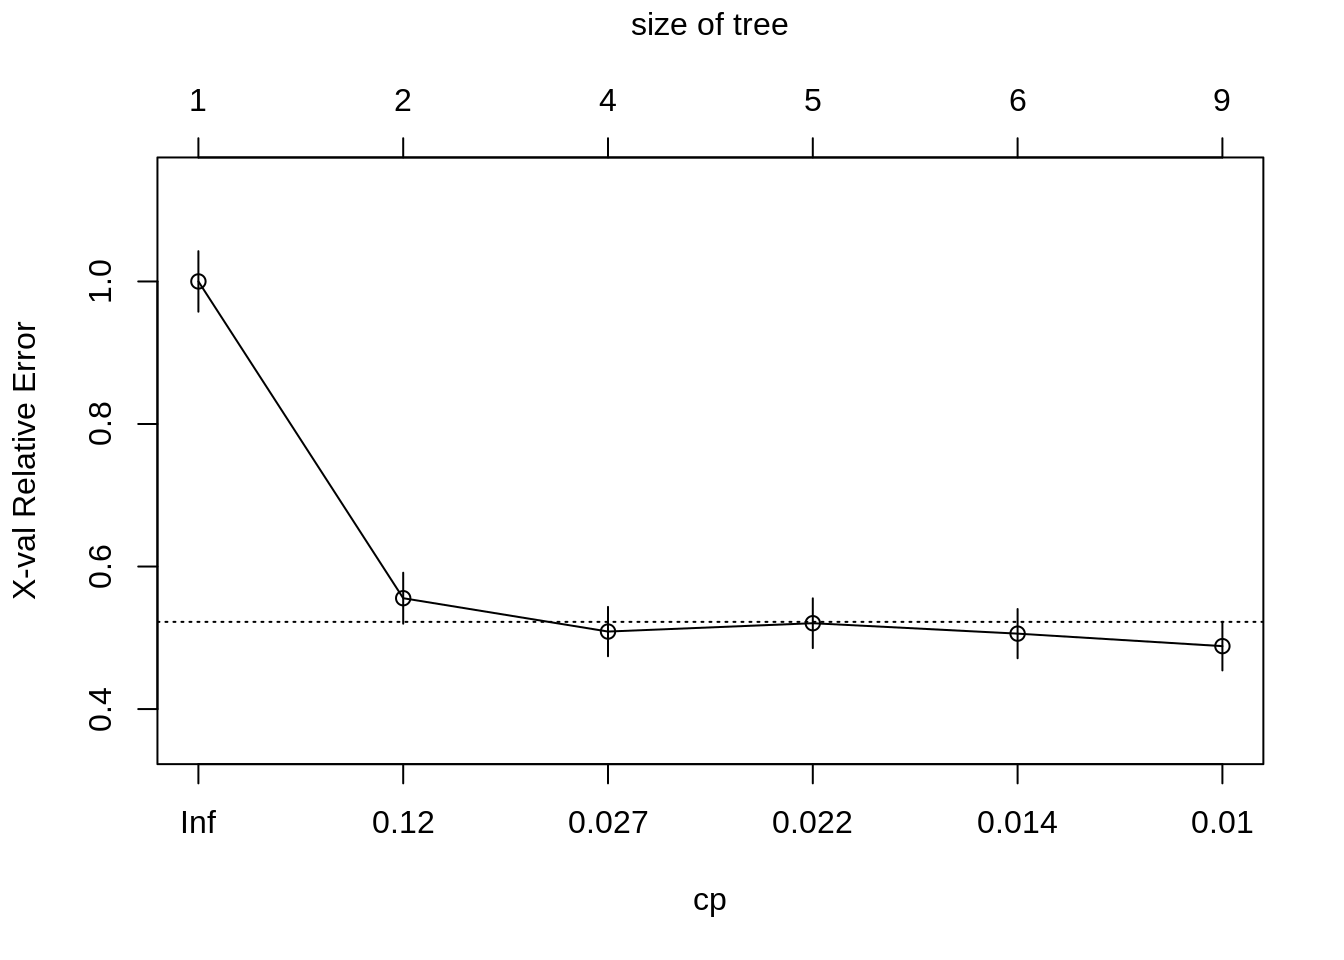
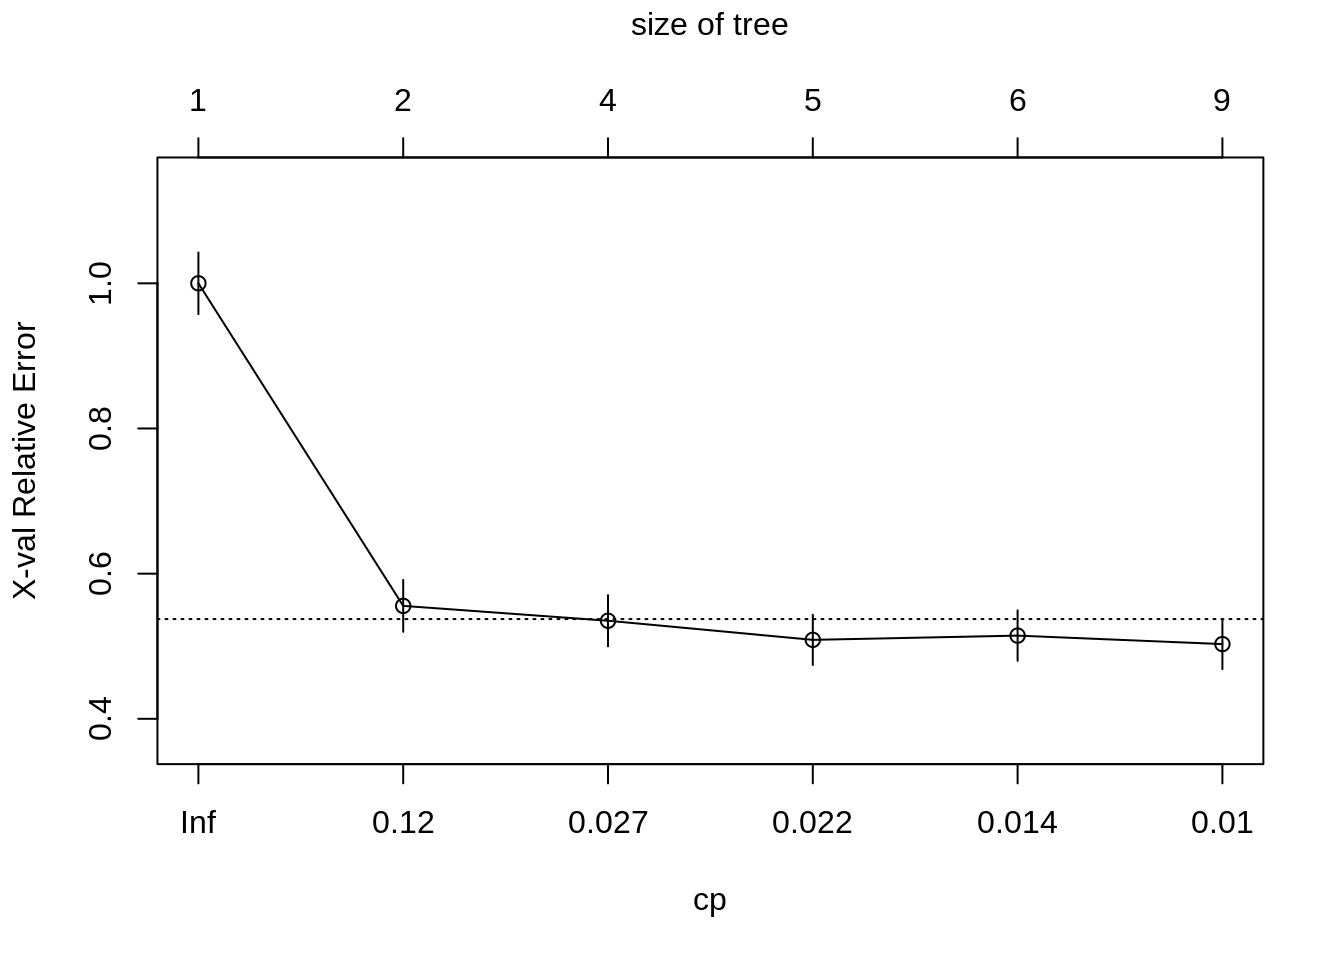
Deploy lebebr01/stat_thinking to github.com/lebebr01/stat_thinking.git:master

diff --git a/docs/classification.html b/docs/classification.html
@@ -324,10 +324,10 @@ titanic &lt;-<span class="st"> </span><span class="kw">bind_rows</span>(titanic_
 ##         CP nsplit rel error  xerror     xstd
 ## 1 0.444444      0   1.00000 1.00000 0.042446
 ## 2 0.030702      1   0.55556 0.55556 0.035750
-## 3 0.023392      3   0.49415 0.50877 0.034599
-## 4 0.020468      4   0.47076 0.52047 0.034897
-## 5 0.010234      5   0.45029 0.50585 0.034524
-## 6 0.010000      8   0.41813 0.48830 0.034061</code></pre>
+## 3 0.023392      3   0.49415 0.53509 0.035260
+## 4 0.020468      4   0.47076 0.50877 0.034599
+## 5 0.010234      5   0.45029 0.51462 0.034749
+## 6 0.010000      8   0.41813 0.50292 0.034448</code></pre>
 <div class="sourceCode"><pre class="sourceCode r"><code class="sourceCode r"><span class="kw">plotcp</span>(class_tree)</code></pre></div>
 <p><img src="05-classification_files/figure-html/unnamed-chunk-6-1.png" width="672" /></p>
 <div class="sourceCode"><pre class="sourceCode r"><code class="sourceCode r">prune_class_tree &lt;-<span class="st"> </span><span class="kw">prune</span>(class_tree, <span class="dt">cp =</span> .<span class="dv">02</span>)

diff --git a/docs/05-classification.md b/docs/05-classification.md
@@ -249,10 +249,10 @@ printcp(class_tree)
 ##         CP nsplit rel error  xerror     xstd
 ## 1 0.444444      0   1.00000 1.00000 0.042446
 ## 2 0.030702      1   0.55556 0.55556 0.035750
-## 3 0.023392      3   0.49415 0.50877 0.034599
-## 4 0.020468      4   0.47076 0.52047 0.034897
-## 5 0.010234      5   0.45029 0.50585 0.034524
-## 6 0.010000      8   0.41813 0.48830 0.034061
+## 3 0.023392      3   0.49415 0.53509 0.035260
+## 4 0.020468      4   0.47076 0.50877 0.034599
+## 5 0.010234      5   0.45029 0.51462 0.034749
+## 6 0.010000      8   0.41813 0.50292 0.034448
 ```
 
 ```r
